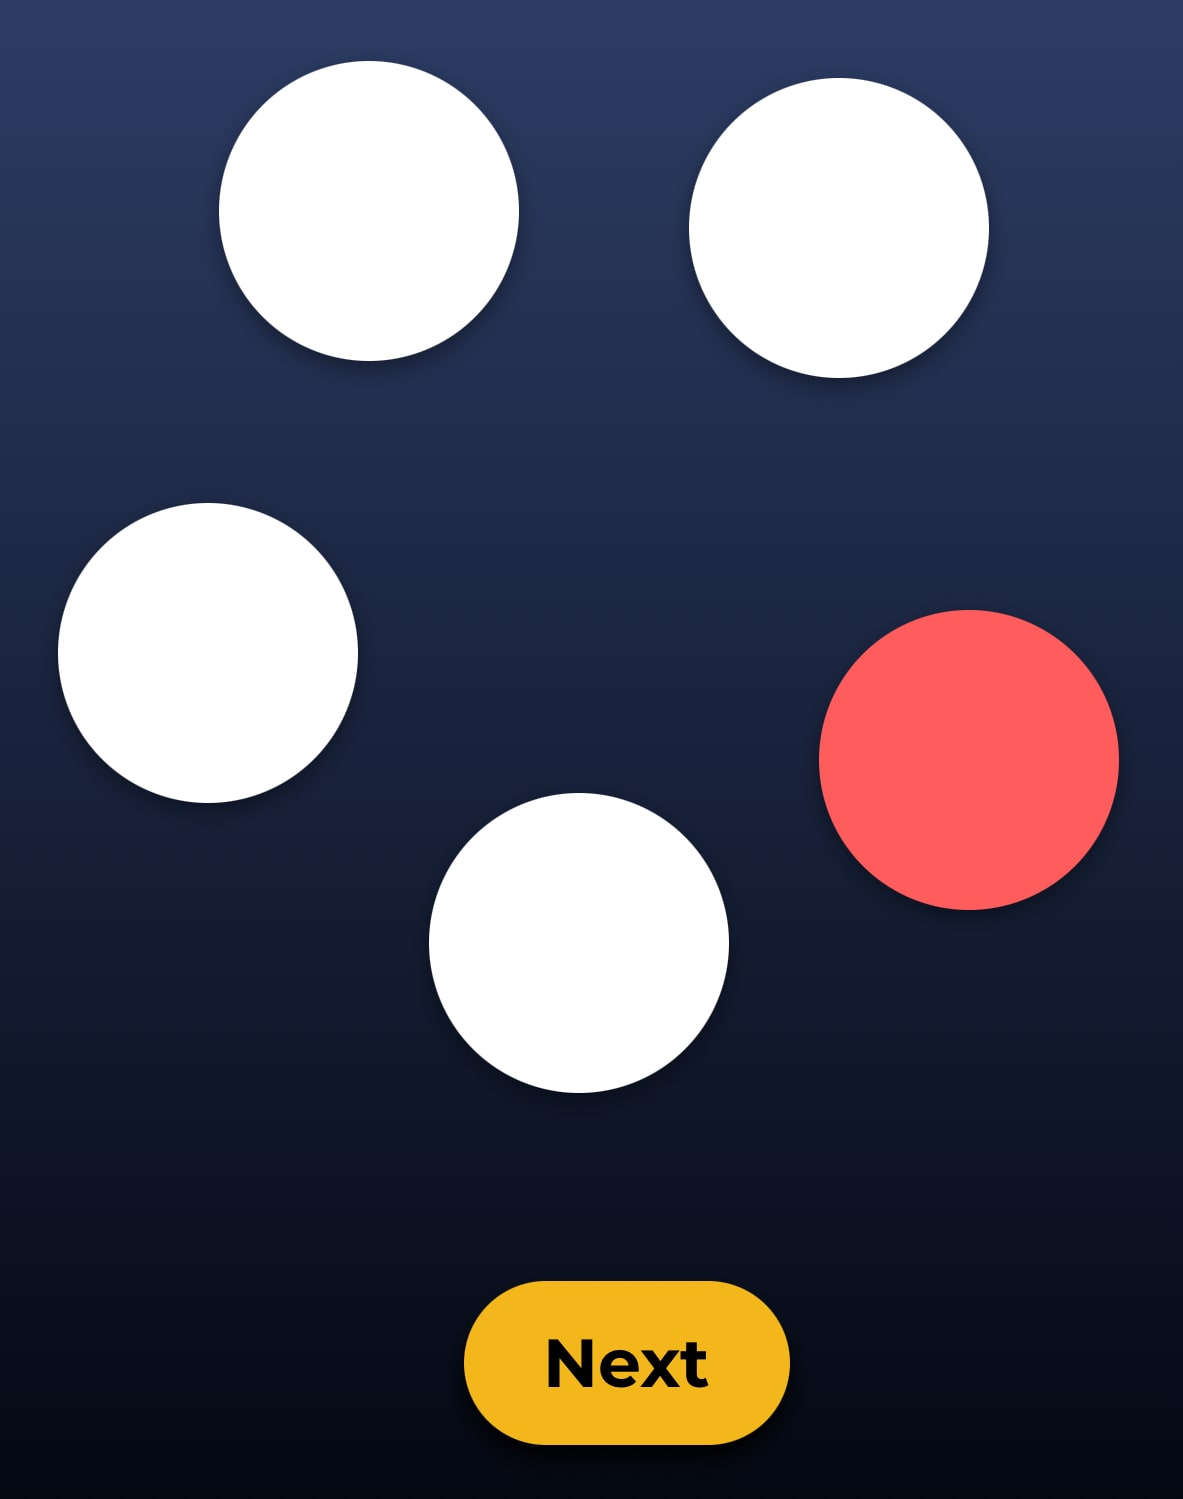
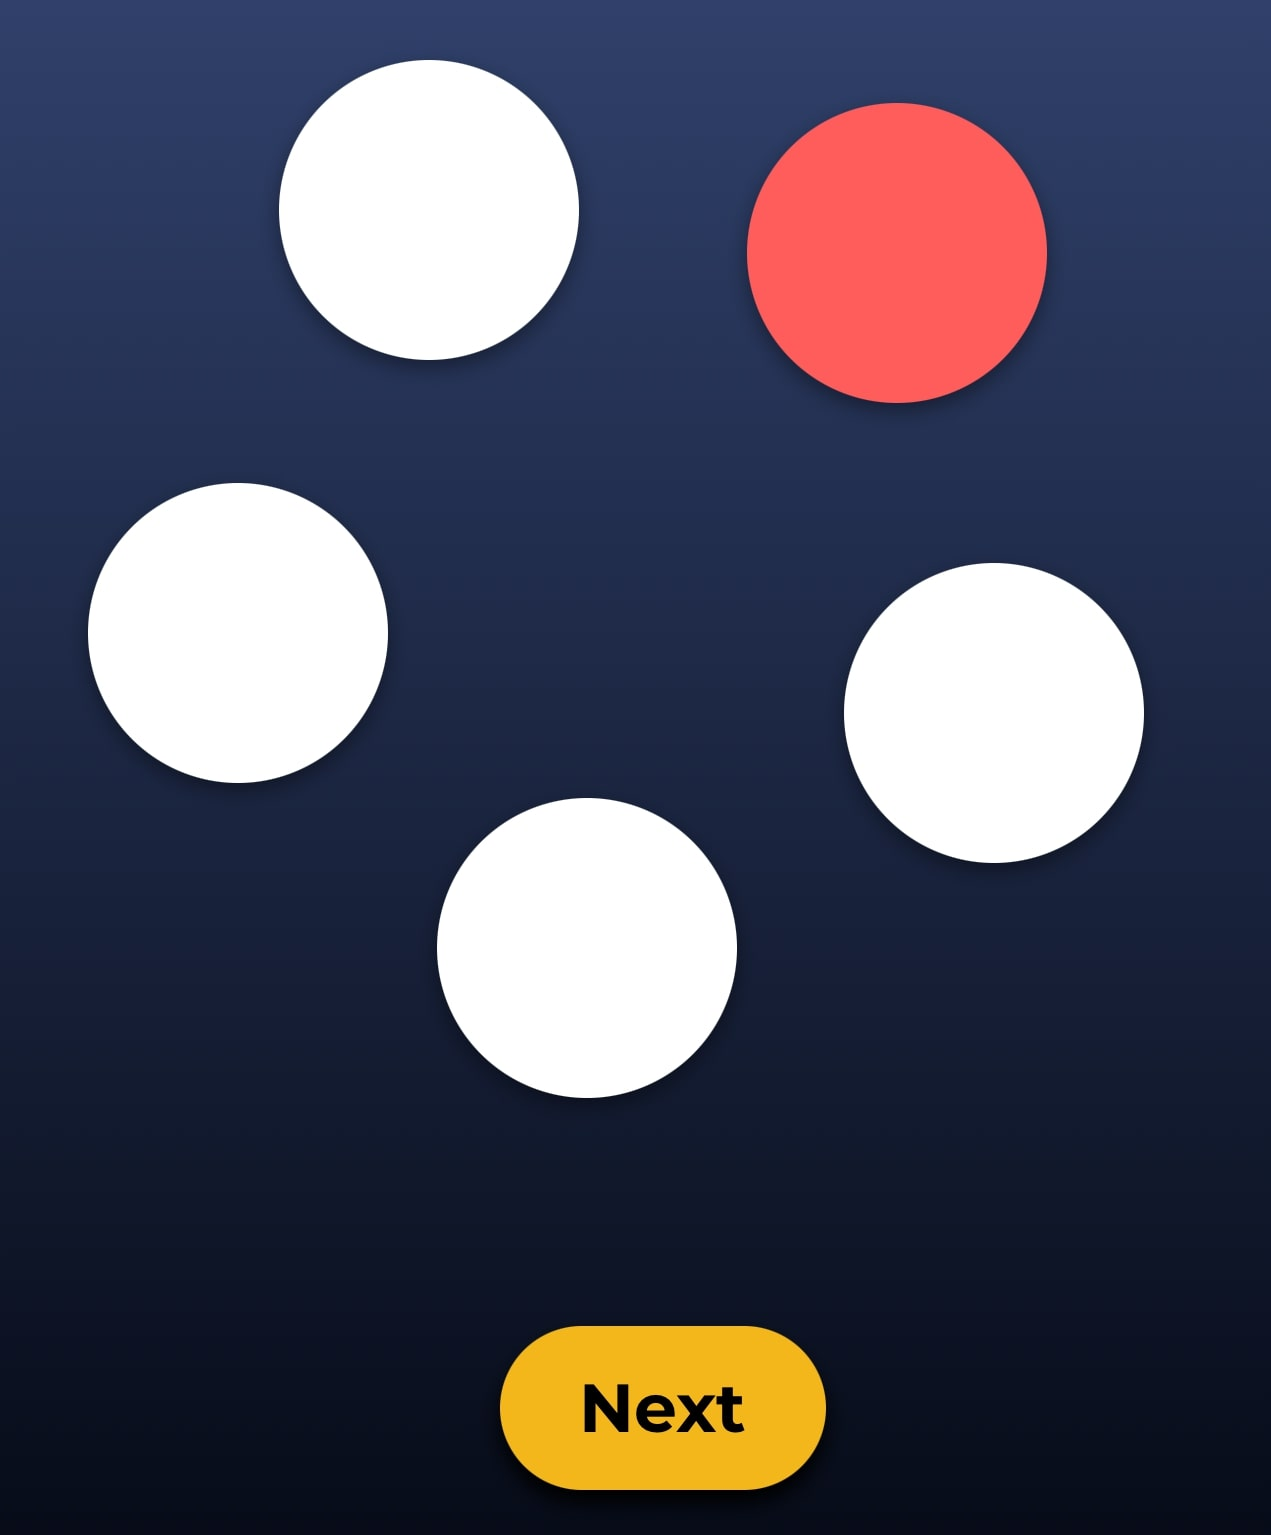
background fixes and asymmetric button fix

diff --git a/src/components/ButtonLayout.tsx b/src/components/ButtonLayout.tsx
@@ -142,10 +142,12 @@ function getCoords(): number[][]{
   //console.log(cx + " is cx. and cy is" + cy)
   let buttons: number[][] = [[0, 0], [0, 0], [0, 0], [0, 0], [0, 0]]
   let r = 200;
+
   for(let i = 0; i < 5; i++){
-    buttons[i][0] = cx + r * Math.cos((72 * i + 10 * trialNum) * (Math.PI / 180)) 
+    let angle = (72 * i + 12 * trialNum) * (Math.PI / 180)
+    buttons[i][0] = cx + r * Math.cos(angle) ;
     //console.log("math cos is " + Math.cos(72 * i * (Math.PI / 180)))
-    buttons[i][1] = cy + r * Math.sin((72 * i + 10 * trialNum) * (Math.PI / 180)) 
+    buttons[i][1] = cy + r * Math.sin(angle) ;
   }
   //console.log("BUTTONS" + buttons)
   return buttons;
@@ -267,8 +269,8 @@ const ButtonLayout = ({setFitted, setHalf}: Props) => {
     explored_set = new Set();
     setIsExplored(false);
     // setDbGain(db_indices[trialNum - 1])
-    const newRotationAngle = (rotationAngle + 10) % 360;
-    setRotationAngle(newRotationAngle);
+    // const newRotationAngle = (rotationAngle + 10) % 360;
+    // setRotationAngle(newRotationAngle);
     setGainShuffler(gainShuffler.sort((a, b) => 0.5 - Math.random()))
 
     gainClick(randomIndex)
@@ -323,7 +325,7 @@ const ButtonLayout = ({setFitted, setHalf}: Props) => {
       
       <div className="button-container">
         <button className={`grid-button ${lastClickedIndex === 0 ? (buttonColor) : ''}`} 
-            style={{ position: `absolute`, left: `${coords[0][0]}px`, top: `${coords[0][1]}px` }} onClick={() =>  gainClick(0)}></button>
+            style={{ position: `absolute`, left: `${coords[0][0]}px`, top: `${coords[0][1] - 37}px` }} onClick={() =>  gainClick(0)}></button>
         <button className={`grid-button2 ${lastClickedIndex === 1 ? (buttonColor) : ''}`} 
             style={{ position: `absolute`, left: `${coords[1][0]}px`, top: `${coords[1][1]}px` }} onClick={() => gainClick(1)}></button>
         <button className={`grid-button3 ${lastClickedIndex === 2 ? (buttonColor) : ''}`}

diff --git a/src/styles/ButtonLayout.css b/src/styles/ButtonLayout.css
@@ -4,7 +4,7 @@
   background-color: white;
   border: black;
   border-radius: 50%; /* Add border-radius property for circular shape */
-  box-shadow: 0px 4px 10px rgba(0, 0, 0, 0.4); /* Add box-shadow for shadow effect */    
+  box-shadow: 0px 4px 10px rgba(0, 0, 0, 0.4); /* Add box-shadow for shadow effect */ 
 }
 /*  */
 .grid-button2{
@@ -13,7 +13,8 @@
   background-color: white;
   border: black;
   border-radius: 50%; /* Add border-radius property for circular shape */
-  box-shadow: 0px 4px 10px rgba(0, 0, 0, 0.4); /* Add box-shadow for shadow effect */  
+  box-shadow: 0px 4px 10px rgba(0, 0, 0, 0.4); /* Add box-shadow for shadow effect */ 
+ 
 }
 .grid-button3{
   width: 150px;
@@ -21,7 +22,8 @@
   background-color: white;
   border: black;
   border-radius: 50%; /* Add border-radius property for circular shape */
-  box-shadow: 0px 4px 10px rgba(0, 0, 0, 0.4); /* Add box-shadow for shadow effect */  
+  box-shadow: 0px 4px 10px rgba(0, 0, 0, 0.4); /* Add box-shadow for shadow effect */ 
+  
 
 }
 .grid-button4{
@@ -29,8 +31,10 @@
   height: 150px;
   background-color: white;
   border: black;
+  top: 50%;
   border-radius: 50%; /* Add border-radius property for circular shape */
   box-shadow: 0px 4px 10px rgba(0, 0, 0, 0.4); /* Add box-shadow for shadow effect */  
+ 
 }
 .grid-button5{
   width: 150px;
@@ -39,7 +43,9 @@
   border: black;
   border-radius: 50%; /* Add border-radius property for circular shape */
 
-  box-shadow: 0px 4px 10px rgba(0, 0, 0, 0.4); /* Add box-shadow for shadow effect */  
+  box-shadow: 0px 4px 10px rgba(0, 0, 0, 0.4); /* Add box-shadow for shadow effect */ 
+ 
+  
 }
 .rotated {
   transform: rotate(10deg); /* Equal to rotateZ(45deg) */

diff --git a/src/pages/Finish.tsx b/src/pages/Finish.tsx
@@ -1,18 +1,17 @@
 import "../styles/Finish.css";
 import check from "../assets/imgs/check.png";
-import background from "../assets/imgs/waves_background.png";
+import ebackground from "../assets/imgs/Exit Waves.jpg";
 
 
 function Finish() {
   return (
     <div className="finish-container">
-       {/* <img className={"background"} src={background} alt={"background"} /> */}
+      <img className={"background"} src={ebackground} alt={"ebackground"} /> 
 
-      <h1 style={{ marginTop: 0 }}> Cheers! </h1>
+      <h1 style={{ marginTop: -180 }}> Congratulations! </h1>
       <h3>Your device is now ready to use!</h3>
 
-      <img src={check} alt="confirmation" style={{ width:250, marginTop: 50 }}></img>
-
+      <img src={check} alt="confirmation" style={{ width:220, marginTop: -20 }}></img>
 
     </div>
   );

diff --git a/src/pages/Welcome.tsx b/src/pages/Welcome.tsx
@@ -1,7 +1,8 @@
 import React, { useState } from "react";
 import "../styles/Welcome.css";
 import ear from "../assets/imgs/Logo.png";
-import background from "../assets/imgs/waves_background.png";
+// import background from "../assets/imgs/waves_background.png";
+import background from "../assets/imgs/Welcome Waves.jpg";
 import StartMenu from "../components/StartMenu";
 
 function Welcome() {
@@ -12,8 +13,9 @@ function Welcome() {
   };
 
   return (
+    
     <div className="welcome-container" onTouchStart={handleTouchStart}>
-      <img className={"background"} src={background} alt={"background"} />
+    <img className={"background"} src={background} alt={"background"} />  
 
       <img
         src={ear}

diff --git a/src/pages/FittingInstruction2.tsx b/src/pages/FittingInstruction2.tsx
@@ -17,7 +17,7 @@ export default function FittingInstruction() {
       />
 
       <h1 className="title">
-        &#8594; When you hear the speaker most clearly and are least disturbed by the background noise, leave that button selected. Click "NEXT", and repeat this task on the following pages. 
+        &#8594; When you hear the talker most clearly and are least disturbed by the background noise, leave that button selected. Click 'NEXT', and repeat this task on the following pages. 
       </h1>
 
       <NextButton to="/buttons" text="Begin" style={{ marginTop: 15 }} />

diff --git a/src/pages/FittingInstruction1.tsx b/src/pages/FittingInstruction1.tsx
@@ -9,7 +9,7 @@ export default function FittingInstruction1() {
       <br></br>
       <h1 className="title">
     
-      &#8594; When you hear the speaker most clearly and are least disturbed by the background noise, leave the cursor on that square. Click "NEXT", and repeat this task on the following pages.
+      &#8594; When you hear the talker most clearly and are least disturbed by the background noise, leave the cursor on that square. Click 'NEXT', and repeat this task on the following pages.
       </h1>
       <br></br>
       <br></br>

diff --git a/src/components/GridLayout.tsx b/src/components/GridLayout.tsx
@@ -117,7 +117,7 @@ const getCoefficient = () => {
     math.index(math.range(3, 6), 1),
     matrix.subset(math.index(math.range(3, 6)))
   );
-  console.log("A : ", reshapedMatrix)
+  //console.log("A : ", reshapedMatrix)
   return math.matrix(reshapedMatrix);
 };
 
@@ -167,6 +167,7 @@ const Grid = ({ setFitted, appendNextG, setHalf }: Props) => {
 
   useEffect(() => {
     setGridSize(window.innerWidth / 1.4); // <--- GRID SIZE ADJUSTMENT !!
+    console.log(getWindowDimensions())
     setCoordinates({
       x: 0,
       y: 0,

diff --git a/src/styles/StartMenu.css b/src/styles/StartMenu.css
@@ -14,7 +14,7 @@
   justify-content: center;
   align-items: center;
 
-  transition: opacity 2s ease-in-out;
+  transition: opacity 1s;
   opacity: 0;
 
   /* round edge */
